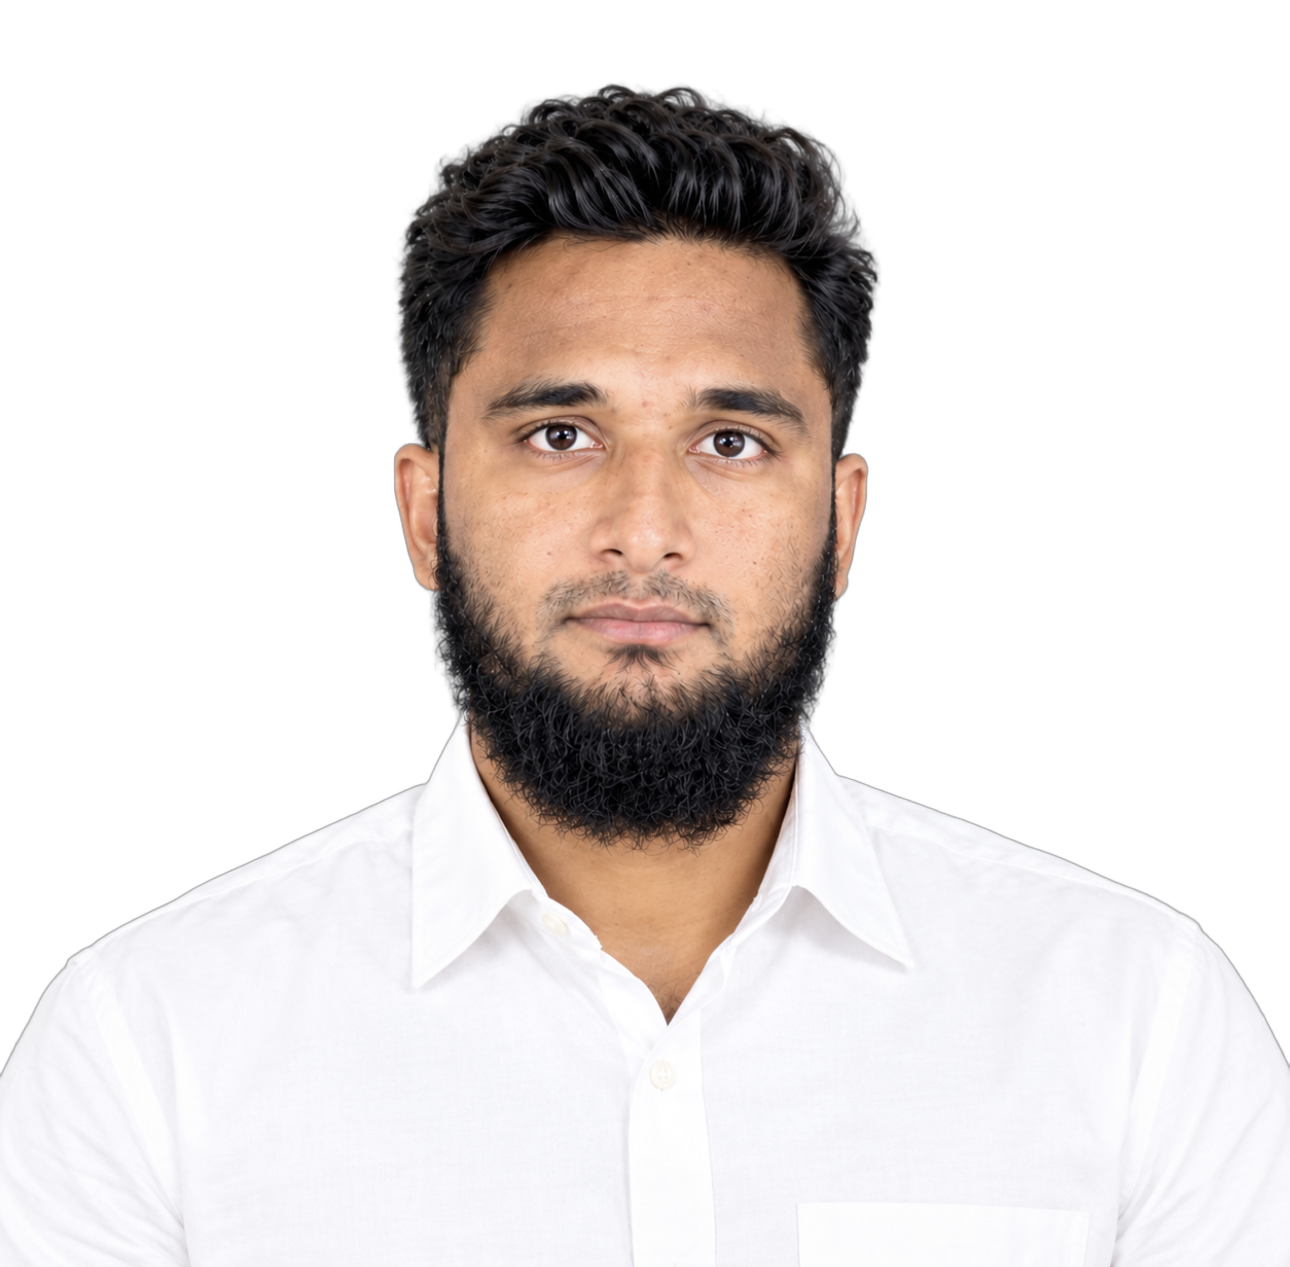
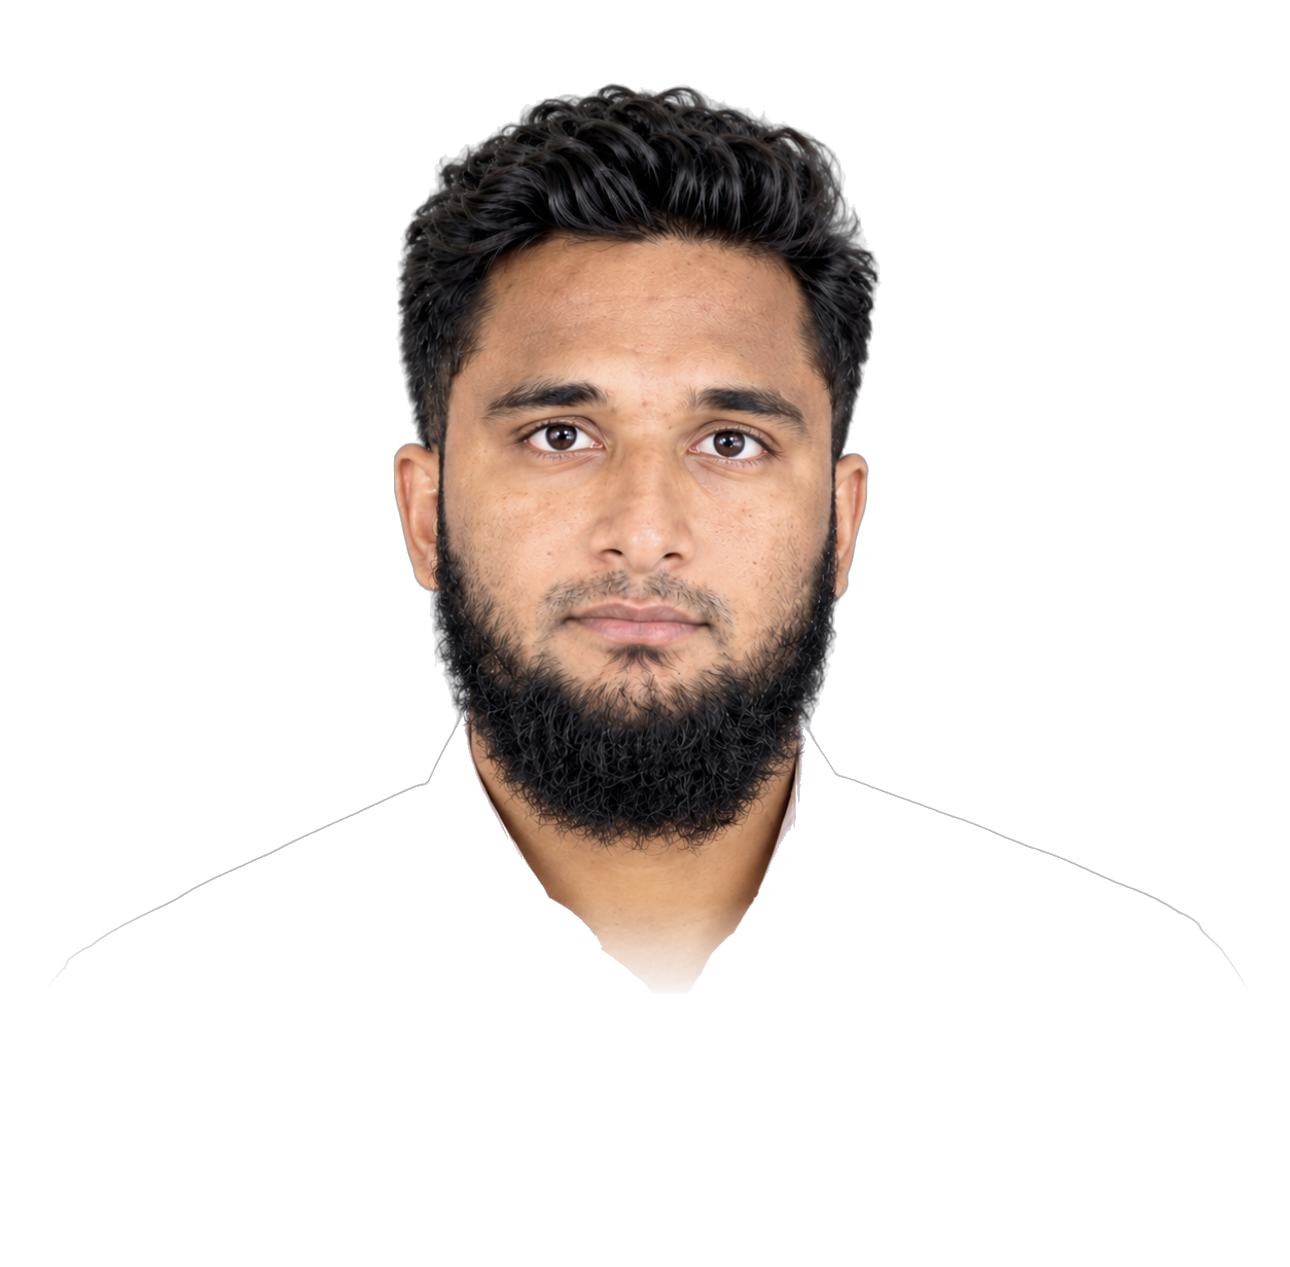
refactor: update hero typography gradients and remove smoke layers and about section profile image

diff --git a/src/components/sections/HeroSection.tsx b/src/components/sections/HeroSection.tsx
@@ -205,26 +205,7 @@ export function HeroSection() {
             className="flex-shrink-0 flex flex-col items-center justify-center w-full lg:w-auto relative my-4 sm:my-0 max-w-full"
           >
             {/* Ambient Radial Backlight Glow Matching Theme */}
-            <div className="absolute top-1/2 left-1/2 -translate-x-1/2 -translate-y-1/2 w-80 h-80 sm:w-[480px] sm:h-[480px] lg:w-[600px] lg:h-[600px] bg-gradient-to-tr from-blue-500/25 via-sky-400/25 to-indigo-500/25 dark:from-blue-600/35 dark:via-blue-500/25 dark:to-indigo-600/30 rounded-full blur-3xl pointer-events-none -z-20" />
-
-            {/* ── ATMOSPHERIC WHITE SMOKE LAYERS (Bright Volumetric Fog) ── */}
-            {/* Upper Left White Smoke Billow */}
-            <div
-              aria-hidden="true"
-              className="absolute -top-10 -left-10 sm:-top-16 sm:-left-16 w-56 h-56 sm:w-80 sm:h-80 rounded-full bg-[radial-gradient(circle,rgba(255,255,255,0.85)_0%,rgba(240,248,255,0.5)_40%,transparent_70%)] dark:bg-[radial-gradient(circle,rgba(255,255,255,0.55)_0%,rgba(220,235,255,0.25)_45%,transparent_70%)] blur-2xl sm:blur-3xl animate-smoke-1 pointer-events-none z-0"
-            />
-
-            {/* Upper Right White Smoke Billow */}
-            <div
-              aria-hidden="true"
-              className="absolute top-6 -right-10 sm:top-8 sm:-right-16 w-60 h-60 sm:w-88 sm:h-88 rounded-full bg-[radial-gradient(circle,rgba(255,255,255,0.8)_0%,rgba(230,242,255,0.45)_45%,transparent_70%)] dark:bg-[radial-gradient(circle,rgba(255,255,255,0.5)_0%,rgba(210,230,255,0.22)_45%,transparent_70%)] blur-2xl sm:blur-3xl animate-smoke-2 pointer-events-none z-0"
-            />
-
-            {/* Center Volumetric White Smoke Haze */}
-            <div
-              aria-hidden="true"
-              className="absolute inset-0 m-auto w-[92%] h-[85%] rounded-[50%] bg-[radial-gradient(ellipse_at_center,rgba(255,255,255,0.75)_0%,rgba(255,255,255,0.35)_50%,transparent_80%)] dark:bg-[radial-gradient(ellipse_at_center,rgba(255,255,255,0.45)_0%,rgba(255,255,255,0.18)_50%,transparent_80%)] blur-xl sm:blur-2xl pointer-events-none z-0"
-            />
+            <div className="absolute top-1/2 left-1/2 -translate-x-1/2 -translate-y-1/2 w-80 h-80 sm:w-[480px] sm:h-[480px] lg:w-[600px] lg:h-[600px] bg-gradient-to-tr from-blue-500/20 via-sky-400/20 to-indigo-500/20 dark:from-blue-600/30 dark:via-blue-500/20 dark:to-indigo-600/25 rounded-full blur-3xl pointer-events-none -z-20" />
 
             {/* Profile Cutout Image Container */}
             <div className="relative w-[270px] h-[360px] xs:w-[310px] xs:h-[420px] sm:w-[370px] sm:h-[490px] md:w-[430px] md:h-[570px] lg:w-[480px] lg:h-[640px] xl:w-[530px] xl:h-[700px] max-w-[92vw] flex items-center justify-center select-none">
@@ -240,17 +221,30 @@ export function HeroSection() {
                   preserveAspectRatio="xMidYMid meet"
                 >
                   <defs>
-                    {/* Front Face Light Gradients */}
-                    <linearGradient id="grad3DWhiteDark" x1="0%" y1="0%" x2="0%" y2="100%">
-                      <stop offset="0%" stopColor="#ffffff" stopOpacity="1" />
-                      <stop offset="45%" stopColor="#f8fafc" stopOpacity="0.95" />
-                      <stop offset="100%" stopColor="#94a3b8" stopOpacity="0.85" />
+                    {/* Light Mode Architectural Slate / Steel Gradients */}
+                    <linearGradient id="grad3DLight" x1="0%" y1="0%" x2="0%" y2="100%">
+                      <stop offset="0%" stopColor="#0f172a" />
+                      <stop offset="60%" stopColor="#1e293b" />
+                      <stop offset="100%" stopColor="#334155" />
                     </linearGradient>
 
-                    <linearGradient id="grad3DWhiteLight" x1="0%" y1="0%" x2="0%" y2="100%">
-                      <stop offset="0%" stopColor="#ffffff" stopOpacity="1" />
-                      <stop offset="55%" stopColor="#f8fafc" stopOpacity="0.95" />
-                      <stop offset="100%" stopColor="#cbd5e1" stopOpacity="0.88" />
+                    <linearGradient id="grad3DLightAccent" x1="0%" y1="0%" x2="100%" y2="100%">
+                      <stop offset="0%" stopColor="#1d4ed8" />
+                      <stop offset="60%" stopColor="#2563eb" />
+                      <stop offset="100%" stopColor="#3b82f6" />
+                    </linearGradient>
+
+                    {/* Dark Mode Luminous Titanium / Specular Gradients */}
+                    <linearGradient id="grad3DDark" x1="0%" y1="0%" x2="0%" y2="100%">
+                      <stop offset="0%" stopColor="#ffffff" />
+                      <stop offset="45%" stopColor="#f8fafc" />
+                      <stop offset="100%" stopColor="#94a3b8" />
+                    </linearGradient>
+
+                    <linearGradient id="grad3DDarkAccent" x1="0%" y1="0%" x2="100%" y2="100%">
+                      <stop offset="0%" stopColor="#ffffff" />
+                      <stop offset="40%" stopColor="#93c5fd" />
+                      <stop offset="100%" stopColor="#3b82f6" />
                     </linearGradient>
 
                     {/* Filter for Ambient 3D Depth Cast Shadow */}
@@ -266,7 +260,7 @@ export function HeroSection() {
                     y="34%"
                     textAnchor="middle"
                     dominantBaseline="central"
-                    className="font-black uppercase tracking-wider fill-black/50 dark:fill-black/95"
+                    className="font-black uppercase tracking-wider fill-slate-900/10 dark:fill-black/95"
                     style={{
                       fontSize: "92px",
                       fontFamily: "var(--font-display), var(--font-geist-sans), sans-serif",
@@ -282,7 +276,7 @@ export function HeroSection() {
                     y="33%"
                     textAnchor="middle"
                     dominantBaseline="central"
-                    className="font-black uppercase tracking-wider fill-slate-400 dark:fill-slate-700"
+                    className="font-black uppercase tracking-wider fill-slate-300 dark:fill-slate-800"
                     style={{
                       fontSize: "92px",
                       fontFamily: "var(--font-display), var(--font-geist-sans), sans-serif",
@@ -298,7 +292,7 @@ export function HeroSection() {
                     y="32%"
                     textAnchor="middle"
                     dominantBaseline="central"
-                    className="font-black uppercase tracking-wider fill-slate-300 dark:fill-slate-600"
+                    className="font-black uppercase tracking-wider fill-slate-200 dark:fill-slate-700"
                     style={{
                       fontSize: "92px",
                       fontFamily: "var(--font-display), var(--font-geist-sans), sans-serif",
@@ -314,7 +308,7 @@ export function HeroSection() {
                     y="31%"
                     textAnchor="middle"
                     dominantBaseline="central"
-                    className="font-black uppercase tracking-wider fill-slate-200 dark:fill-slate-400"
+                    className="font-black uppercase tracking-wider fill-slate-100 dark:fill-slate-600"
                     style={{
                       fontSize: "92px",
                       fontFamily: "var(--font-display), var(--font-geist-sans), sans-serif",
@@ -324,17 +318,17 @@ export function HeroSection() {
                     SOFTWARE
                   </text>
 
-                  {/* Front Face (Crisp Luminous White Face with Specular Stroke) */}
+                  {/* Front Face (Crisp Luminous Face with Specular Stroke) */}
                   <text
                     x="50%"
                     y="30%"
                     textAnchor="middle"
                     dominantBaseline="central"
-                    className="font-black uppercase tracking-wider fill-[url(#grad3DWhiteLight)] dark:fill-[url(#grad3DWhiteDark)] stroke-white dark:stroke-white/95"
+                    className="font-black uppercase tracking-wider fill-[url(#grad3DLight)] dark:fill-[url(#grad3DDark)] stroke-slate-800/15 dark:stroke-white/90"
                     style={{
                       fontSize: "92px",
                       fontFamily: "var(--font-display), var(--font-geist-sans), sans-serif",
-                      strokeWidth: "1.8px",
+                      strokeWidth: "1.5px",
                       letterSpacing: "0.06em",
                       filter: "drop-shadow(0 3px 12px rgba(0,0,0,0.25))",
                     }}
@@ -349,7 +343,7 @@ export function HeroSection() {
                     y="64%"
                     textAnchor="middle"
                     dominantBaseline="central"
-                    className="font-black uppercase tracking-wider fill-black/50 dark:fill-black/95"
+                    className="font-black uppercase tracking-wider fill-slate-900/10 dark:fill-black/95"
                     style={{
                       fontSize: "92px",
                       fontFamily: "var(--font-display), var(--font-geist-sans), sans-serif",
@@ -365,7 +359,7 @@ export function HeroSection() {
                     y="63%"
                     textAnchor="middle"
                     dominantBaseline="central"
-                    className="font-black uppercase tracking-wider fill-slate-400 dark:fill-slate-700"
+                    className="font-black uppercase tracking-wider fill-blue-200/50 dark:fill-slate-800"
                     style={{
                       fontSize: "92px",
                       fontFamily: "var(--font-display), var(--font-geist-sans), sans-serif",
@@ -381,7 +375,7 @@ export function HeroSection() {
                     y="62%"
                     textAnchor="middle"
                     dominantBaseline="central"
-                    className="font-black uppercase tracking-wider fill-slate-300 dark:fill-slate-600"
+                    className="font-black uppercase tracking-wider fill-blue-100/50 dark:fill-slate-700"
                     style={{
                       fontSize: "92px",
                       fontFamily: "var(--font-display), var(--font-geist-sans), sans-serif",
@@ -397,7 +391,7 @@ export function HeroSection() {
                     y="61%"
                     textAnchor="middle"
                     dominantBaseline="central"
-                    className="font-black uppercase tracking-wider fill-slate-200 dark:fill-slate-400"
+                    className="font-black uppercase tracking-wider fill-slate-100 dark:fill-slate-600"
                     style={{
                       fontSize: "92px",
                       fontFamily: "var(--font-display), var(--font-geist-sans), sans-serif",
@@ -407,19 +401,19 @@ export function HeroSection() {
                     ENGINEER
                   </text>
 
-                  {/* Front Face (Crisp Luminous White Face with Specular Stroke) */}
+                  {/* Front Face (Crisp Luminous Face with Specular Stroke) */}
                   <text
                     x="50%"
                     y="60%"
                     textAnchor="middle"
                     dominantBaseline="central"
-                    className="font-black uppercase tracking-wider fill-[url(#grad3DWhiteLight)] dark:fill-[url(#grad3DWhiteDark)] stroke-white dark:stroke-white/95"
+                    className="font-black uppercase tracking-wider fill-[url(#grad3DLightAccent)] dark:fill-[url(#grad3DDarkAccent)] stroke-blue-700/25 dark:stroke-blue-300/80"
                     style={{
                       fontSize: "92px",
                       fontFamily: "var(--font-display), var(--font-geist-sans), sans-serif",
-                      strokeWidth: "1.8px",
+                      strokeWidth: "1.5px",
                       letterSpacing: "0.06em",
-                      filter: "drop-shadow(0 3px 12px rgba(0,0,0,0.25))",
+                      filter: "drop-shadow(0 3px 12px rgba(37,99,235,0.25))",
                     }}
                   >
                     ENGINEER
@@ -427,40 +421,17 @@ export function HeroSection() {
                 </svg>
               </div>
 
-              {/* Profile Image (Full-standing cutout with crisp rendering and adaptive lighting) */}
+              {/* Profile Image (Clean presentation without below-image dark shadows) */}
               <Image
                 src={profileImage}
                 alt="Mohammed Rizwan — Software Engineer"
                 priority
-                className="w-full h-full object-contain object-bottom relative z-10 transition-all duration-300 drop-shadow-[0_10px_22px_rgba(0,0,0,0.2)] dark:drop-shadow-[0_16px_40px_rgba(0,0,0,0.9)]"
+                className="w-full h-full object-contain object-bottom relative z-10 transition-all duration-300"
+                style={{
+                  maskImage: "linear-gradient(to bottom, black 85%, transparent 100%)",
+                  WebkitMaskImage: "linear-gradient(to bottom, black 85%, transparent 100%)",
+                }}
               />
-
-              {/* Rolling White Floor Smoke Flowing around sneakers */}
-              <div
-                aria-hidden="true"
-                className="absolute -bottom-2 sm:-bottom-3 left-1/2 w-[95%] h-12 sm:h-16 rounded-[100%] bg-[radial-gradient(ellipse_at_center,rgba(255,255,255,0.85)_0%,rgba(240,248,255,0.45)_45%,transparent_75%)] dark:bg-[radial-gradient(ellipse_at_center,rgba(255,255,255,0.55)_0%,rgba(220,235,255,0.25)_45%,transparent_75%)] blur-md sm:blur-lg animate-smoke-floor pointer-events-none z-10"
-              />
-
-              {/* Natural Grounding Floor Shadow under sneakers */}
-              <div
-                className="absolute -bottom-2 sm:-bottom-3 left-1/2 -translate-x-1/2 w-3/4 sm:w-2/3 h-3 sm:h-5 rounded-[100%] bg-neutral-900/30 dark:bg-black/90 blur-sm sm:blur-md pointer-events-none z-0"
-                aria-hidden="true"
-              />
-
-              {/* Subtle Blue Ambient Floor Reflection */}
-              <div
-                className="absolute -bottom-3 sm:-bottom-4 left-1/2 -translate-x-1/2 w-1/2 sm:w-2/5 h-4 sm:h-6 rounded-[100%] bg-blue-500/15 dark:bg-blue-600/20 blur-lg pointer-events-none z-0"
-                aria-hidden="true"
-              />
-
-              {/* Floating Glassmorphism Dock Anchoring the Base */}
-              <motion.div
-                initial={{ opacity: 0, y: 10 }}
-                animate={{ opacity: 1, y: 0 }}
-                transition={{ delay: 0.4, duration: 0.5 }}
-                className="absolute -bottom-3 sm:-bottom-4 left-1/2 -translate-x-1/2 z-20 w-max max-w-[95%] pointer-events-auto"
-              >
-              </motion.div>
             </div>
           </motion.div>
         </motion.div>

diff --git a/src/components/sections/AboutSection.tsx b/src/components/sections/AboutSection.tsx
@@ -1,12 +1,10 @@
 "use client";
 
 import React, { useRef } from "react";
-import Image from "next/image";
 import { motion, type Variants } from "framer-motion";
 import { useInView } from "@/hooks";
 import { Section, Card, CardBody } from "@/components/ui";
 import { Code2, Zap, Target, Users, Bot, Sparkles, CheckCircle2 } from "lucide-react";
-import profileImage from "../../../public/profile.png";
 
 const highlights = [
   {
@@ -69,25 +67,14 @@ export function AboutSection() {
       >
         {/* Left Column: Narrative & Focus */}
         <motion.div variants={itemVariants} className="space-y-6">
-          <div className="flex items-center gap-4 pb-2 border-b border-neutral-100 dark:border-neutral-800">
-            <div className="w-14 h-14 rounded-2xl overflow-hidden flex-shrink-0 flex items-center justify-center bg-neutral-100 dark:bg-neutral-800 border border-neutral-200/80 dark:border-neutral-700/80 relative">
-              <Image
-                src={profileImage}
-                alt="Mohammed Rizwan"
-                width={56}
-                height={56}
-                className="w-full h-full object-cover object-top"
-              />
+          <div className="pb-2 border-b border-neutral-100 dark:border-neutral-800">
+            <div className="inline-flex items-center gap-1.5 px-2.5 py-0.5 rounded-full text-xs font-semibold bg-blue-50 dark:bg-blue-950/60 text-blue-700 dark:text-blue-300 border border-blue-200 dark:border-blue-800/80 mb-1">
+              <Sparkles className="w-3 h-3" />
+              <span>Full Stack Developer</span>
             </div>
-            <div>
-              <div className="inline-flex items-center gap-1.5 px-2.5 py-0.5 rounded-full text-xs font-semibold bg-blue-50 dark:bg-blue-950/60 text-blue-700 dark:text-blue-300 border border-blue-200 dark:border-blue-800/80 mb-1">
-                <Sparkles className="w-3 h-3" />
-                <span>Full Stack Developer</span>
-              </div>
-              <h3 className="text-xl font-bold text-neutral-900 dark:text-white">
-                Mohammed Rizwan
-              </h3>
-            </div>
+            <h3 className="text-xl font-bold text-neutral-900 dark:text-white">
+              Mohammed Rizwan
+            </h3>
           </div>
 
           <div className="space-y-3 text-neutral-600 dark:text-neutral-400 text-sm sm:text-base leading-relaxed">
